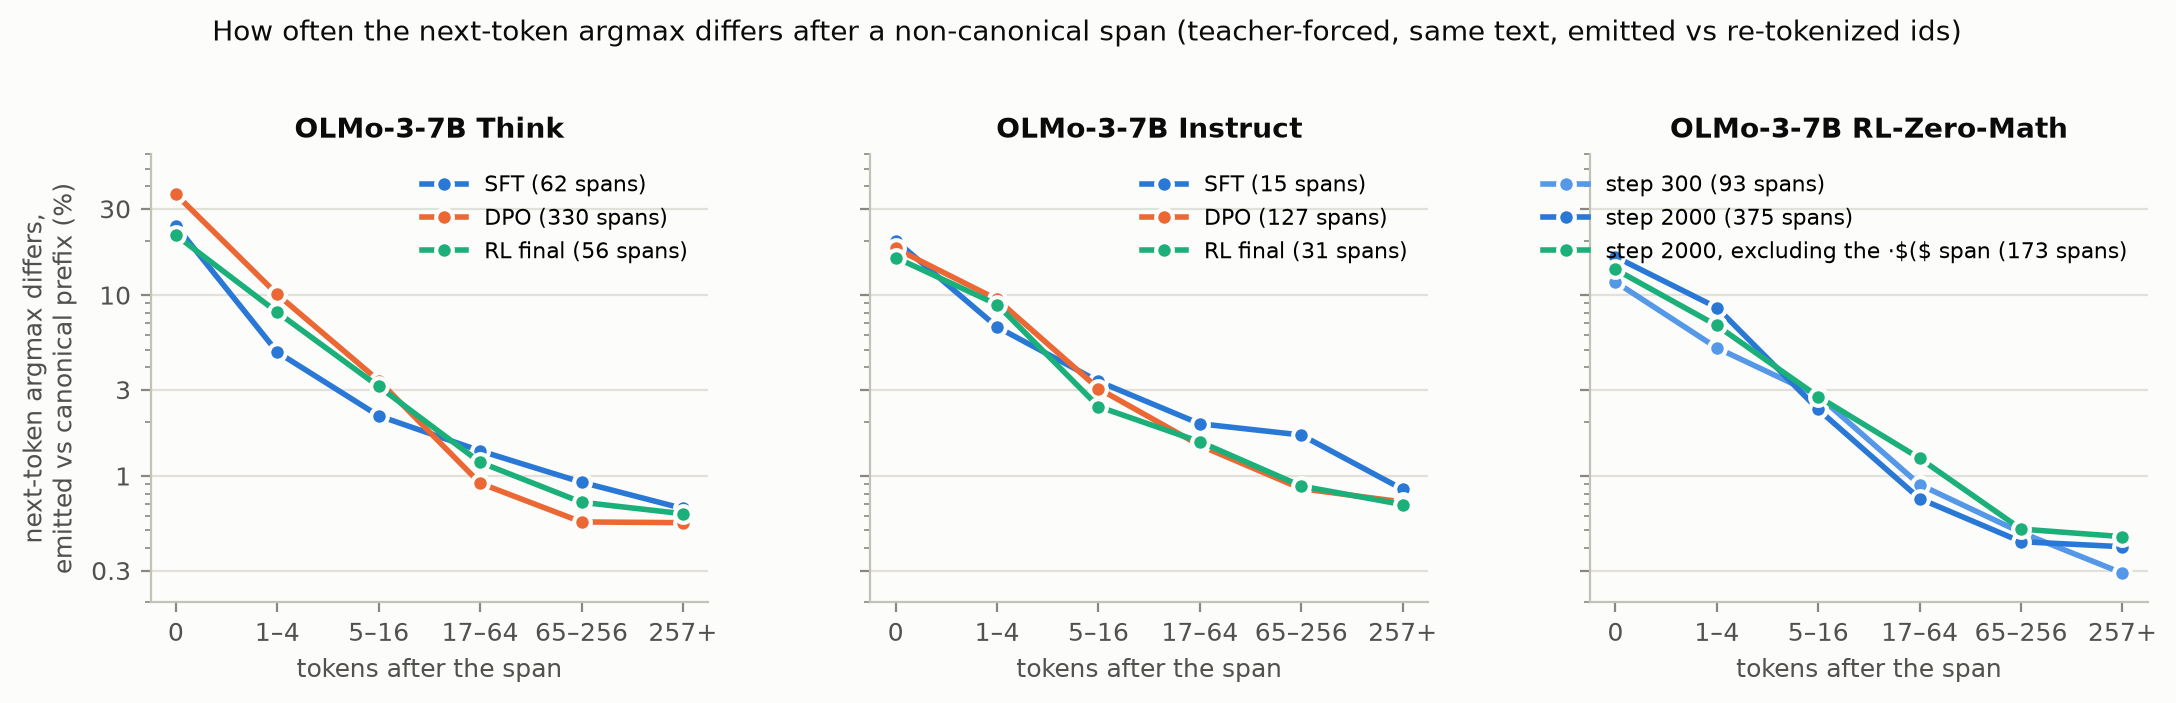
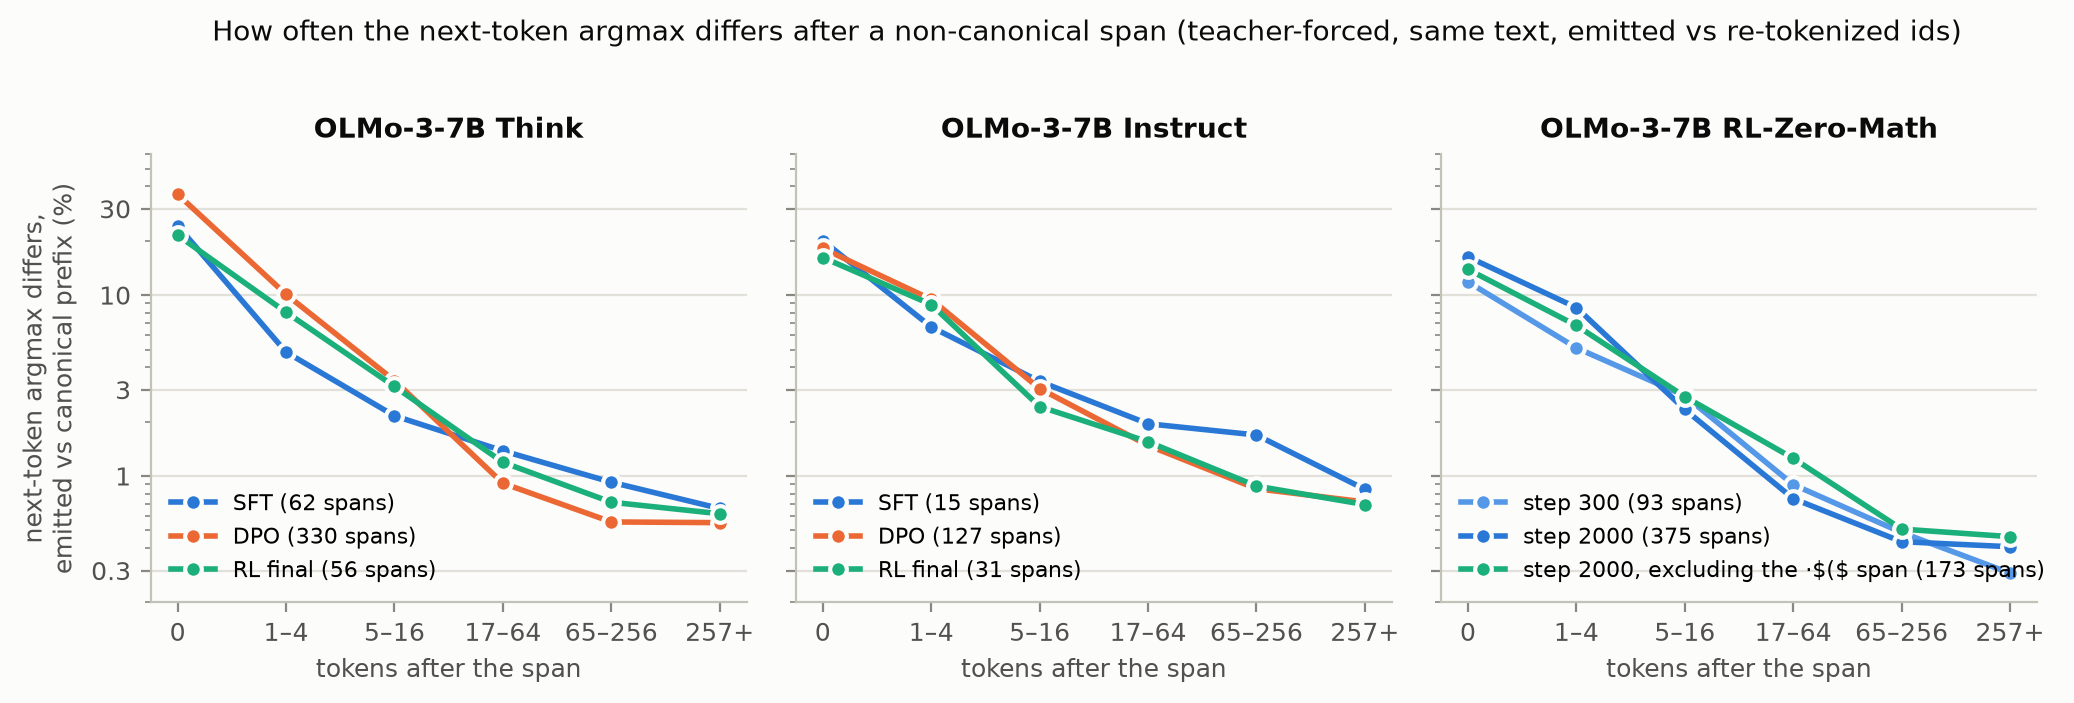
fig4: legend in the empty lower-left corner

diff --git a/scripts/figures.py b/scripts/figures.py
@@ -269,7 +269,7 @@ def fig4() -> None:
         top.set_yscale("log")
         top.set_ylim(0.2, 60)
         top.set_yticks([0.3, 1, 3, 10, 30], ["0.3", "1", "3", "10", "30"])
-        top.legend(loc="upper right")
+        top.legend(loc="lower left")
         top.set_xticks(range(len(DISTANCE_BINS)), bin_labels)
         top.set_xlabel("tokens after the span")
     axes[0].set_ylabel("next-token argmax differs,\nemitted vs canonical prefix (%)")
